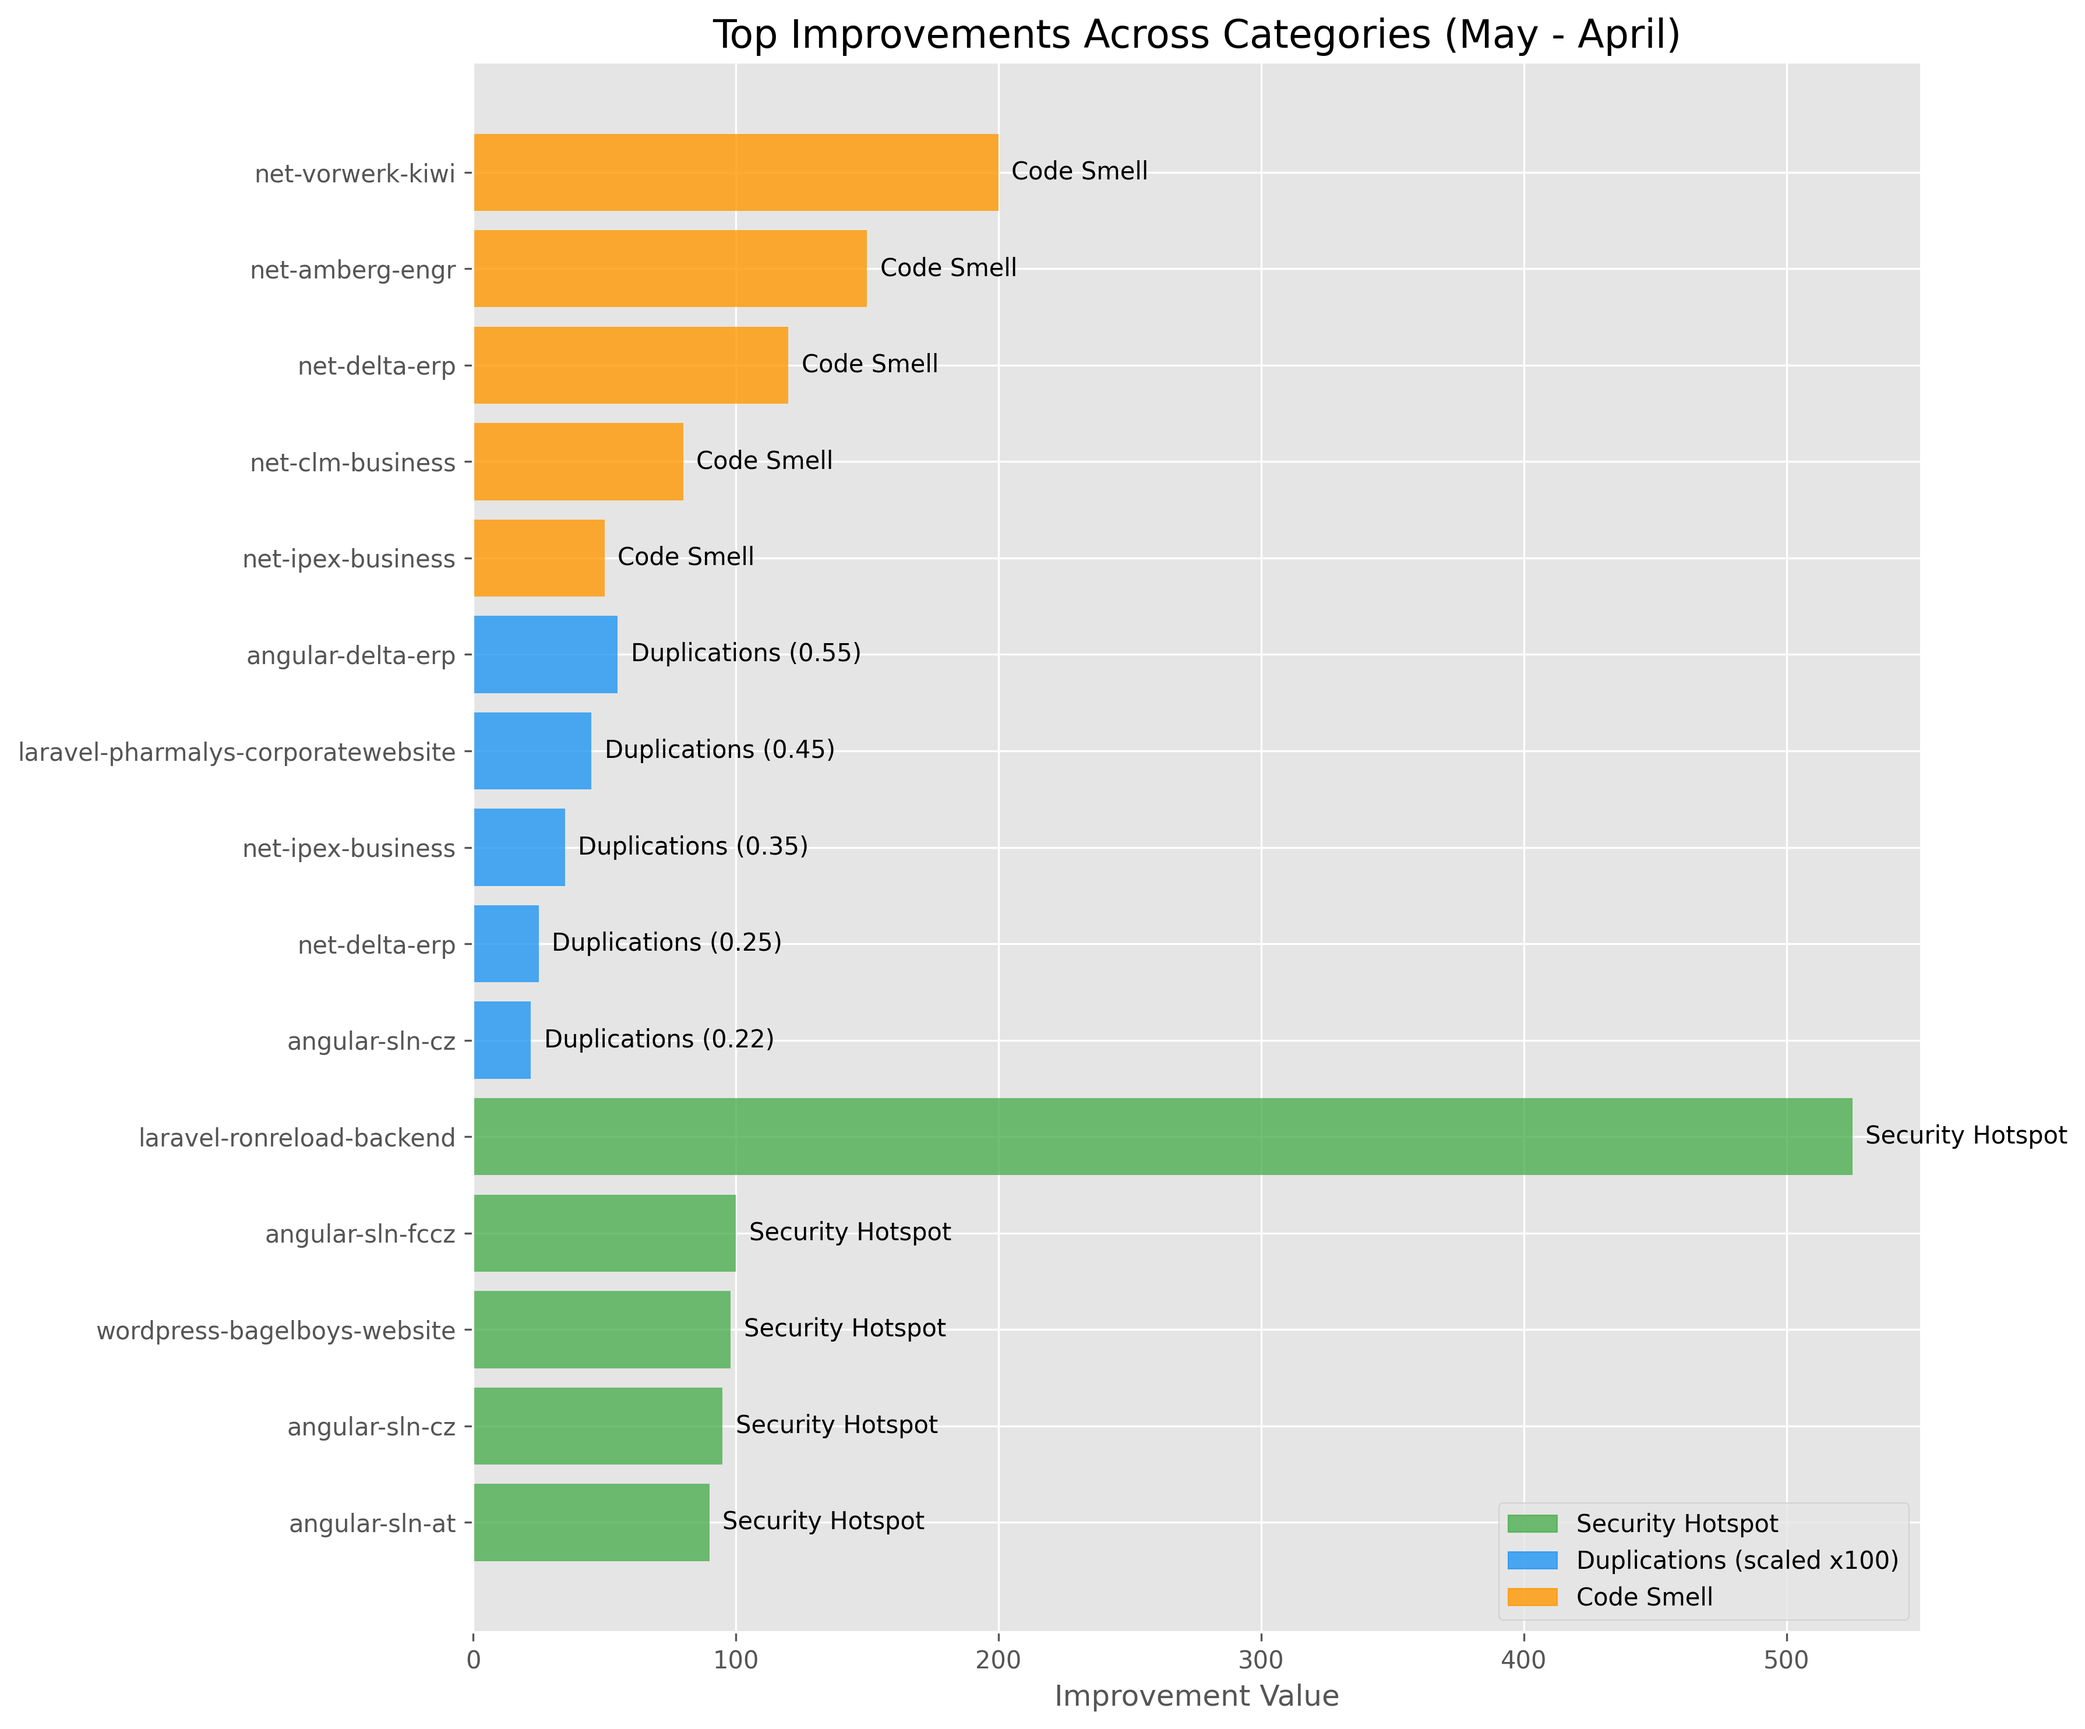
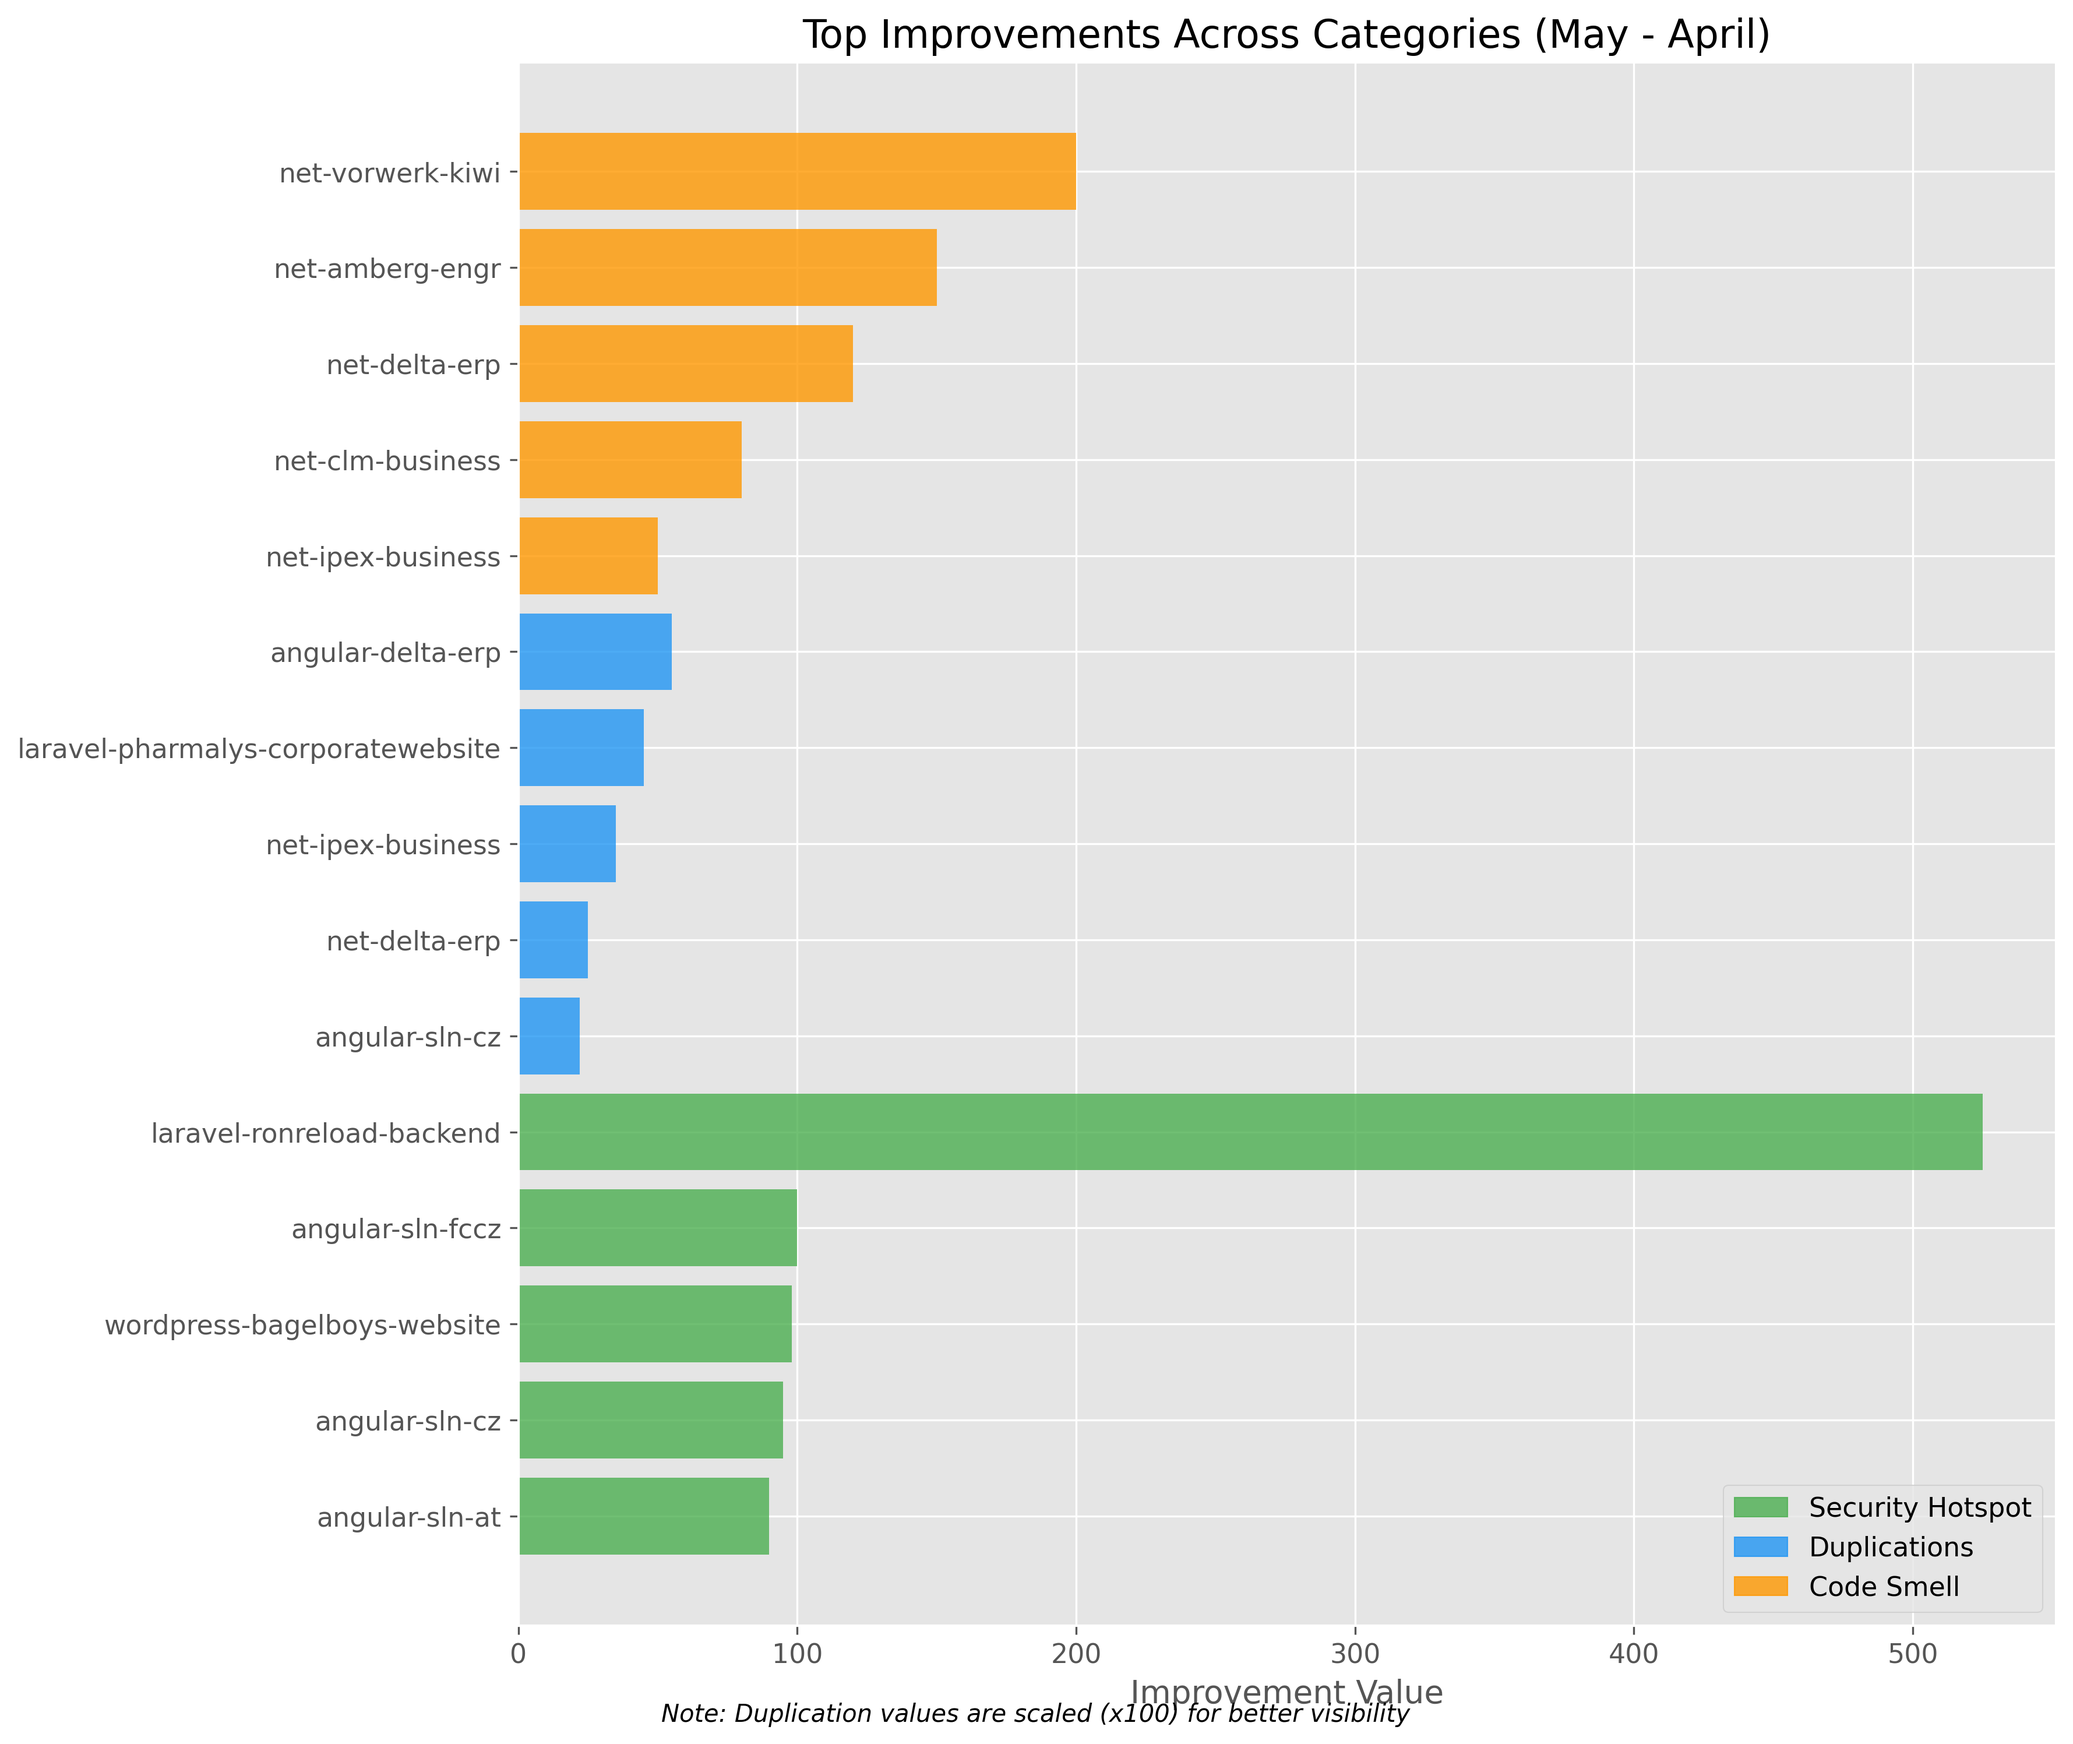
new 01

Changed region(s): [[0.0312, 0.031, 0.9983, 0.9919], [0.3432, 0.0, 0.8423, 0.031], [0.468, 0.062, 0.5616, 0.124]]

diff --git a/compare.py b/compare.py
@@ -1,139 +1,126 @@
 import matplotlib.pyplot as plt
-import numpy as np
 import pandas as pd
 
-# Set style
+# Set style and increase font size for better readability in emails
 plt.style.use('ggplot')
+plt.rcParams.update({'font.size': 11})
 
 # Data for the improvements
-# Security Hotspot Data
-security_names = [
-    'laravel-ronreload-backend',
-    'angular-sln-fccz',
-    'wordpress-bagelboys-website',
-    'angular-sln-cz',
-    'angular-sln-at'
-]
-security_values = [525, 100, 98, 95, 90]
-
-# Duplications Data - Note: These are small values so we'll scale them for visibility
-duplications_names = [
-    'angular-delta-erp',
-    'laravel-pharmalys-corporatewebsite',
-    'net-ipex-business',
-    'net-delta-erp',
-    'angular-sln-cz'
-]
-duplications_values = [0.55, 0.45, 0.35, 0.25, 0.22]
-# Scale for visualization
-duplications_values_scaled = [val * 100 for val in duplications_values]
-
-# Code Smell Data
-code_smell_names = [
-    'net-vorwerk-kiwi',
-    'net-amberg-engr',
-    'net-delta-erp',
-    'net-clm-business',
-    'net-ipex-business'
-]
-code_smell_values = [200, 150, 120, 80, 50]
-
-# Create figure and subplots
-fig, axes = plt.subplots(3, 1, figsize=(10, 12), sharex=True)
-fig.suptitle('Top Improvements Across Categories (May - April)', fontsize=16)
+data = {
+    'Security Hotspot': {
+        'laravel-ronreload-backend': 525,
+        'angular-sln-fccz': 100,
+        'wordpress-bagelboys-website': 98,
+        'angular-sln-cz': 95,
+        'angular-sln-at': 90
+    },
+    'Duplications': {
+        'angular-delta-erp': 0.55,
+        'laravel-pharmalys-corporatewebsite': 0.45,
+        'net-ipex-business': 0.35,
+        'net-delta-erp': 0.25,
+        'angular-sln-cz': 0.22
+    },
+    'Code Smell': {
+        'net-vorwerk-kiwi': 200,
+        'net-amberg-engr': 150,
+        'net-delta-erp': 120,
+        'net-clm-business': 80,
+        'net-ipex-business': 50
+    }
+}
 
 # Colors
-security_color = '#4CAF50'  # Green
-duplications_color = '#2196F3'  # Blue
-code_smell_color = '#FF9800'  # Orange
+colors = {
+    'Security Hotspot': '#4CAF50',  # Green
+    'Duplications': '#2196F3',      # Blue
+    'Code Smell': '#FF9800'         # Orange
+}
 
-# Plot Security Hotspot Improvements
-axes[0].barh(security_names, security_values, color=security_color, alpha=0.8)
-axes[0].set_title('Top 5 Security Hotspot Improvements')
-axes[0].set_ylabel('Repository and Branch')
-axes[0].invert_yaxis()  # Highest value at the top
+# Create a single figure with three subplots
+fig, axes = plt.subplots(3, 1, figsize=(10, 12), sharex=False)
+fig.suptitle('Top Improvements Across Categories (May - April)', fontsize=16, y=0.98)
 
-# Plot Duplications Improvements
-axes[1].barh(duplications_names, duplications_values_scaled, color=duplications_color, alpha=0.8)
-axes[1].set_title('Top 5 Duplications Improvements (scaled x100)')
-axes[1].set_ylabel('Repository and Branch')
-axes[1].invert_yaxis()
+# Plot each category
+for i, (category, values) in enumerate(data.items()):
+    names = list(values.keys())
+    values_list = list(values.values())
+    
+    # For duplications, we'll show the original values
+    if category == 'Duplications':
+        # Create a separate y-axis for the duplications to handle the small values
+        bars = axes[i].barh(names, values_list, color=colors[category], alpha=0.8)
+        axes[i].set_title(f'Top 5 {category} Improvements')
+        # Add value labels directly on the bars
+        for j, v in enumerate(values_list):
+            axes[i].text(v + 0.01, j, f'{v:.2f}', va='center')
+    else:
+        bars = axes[i].barh(names, values_list, color=colors[category], alpha=0.8)
+        axes[i].set_title(f'Top 5 {category} Improvements')
+        # Add value labels for larger values
+        for j, v in enumerate(values_list):
+            axes[i].text(v + 10, j, f'{v}', va='center')
+    
+    axes[i].set_ylabel('Repository')
+    axes[i].invert_yaxis()  # Highest value at the top
+    
+    # Set appropriate x-axis limits
+    if category == 'Duplications':
+        axes[i].set_xlim(0, max(values_list) * 1.3)
+    else:
+        axes[i].set_xlim(0, max(values_list) * 1.1)
 
-# Add actual values as annotations for duplications
-for i, v in enumerate(duplications_values):
-    axes[1].text(duplications_values_scaled[i] + 5, i, f'Actual: {v:.2f}', 
-                 va='center', fontsize=9)
-
-# Plot Code Smell Improvements
-axes[2].barh(code_smell_names, code_smell_values, color=code_smell_color, alpha=0.8)
-axes[2].set_title('Top 5 Code Smell Improvements')
+# Set the bottom x-axis label
 axes[2].set_xlabel('Improvement Value')
-axes[2].set_ylabel('Repository and Branch')
-axes[2].invert_yaxis()
 
 # Adjust layout
 plt.tight_layout()
 plt.subplots_adjust(top=0.93)
 
 # Save figure
-plt.savefig('top_improvements.png', dpi=300, bbox_inches='tight')
+plt.savefig('top_improvements_by_category.png', dpi=300, bbox_inches='tight')
 
-# Show plot
-plt.show()
-
-# Alternative version: All in one chart
+# Create a single combined chart
 plt.figure(figsize=(12, 10))
 
-# Combine all data
-all_names = security_names + duplications_names + code_smell_names
-all_values = security_values + duplications_values_scaled + code_smell_values
-categories = ['Security Hotspot'] * 5 + ['Duplications'] * 5 + ['Code Smell'] * 5
+# Prepare combined data
+all_data = []
+for category, repo_data in data.items():
+    for repo, value in repo_data.items():
+        all_data.append({
+            'Repository': repo,
+            'Value': value,
+            'Category': category,
+            'DisplayValue': value if category != 'Duplications' else value * 100  # Scale duplications for display
+        })
 
-# Create DataFrame
-df = pd.DataFrame({
-    'Repository': all_names,
-    'Value': all_values,
-    'Category': categories
-})
+df = pd.DataFrame(all_data)
 
-# Sort by category and value
+# Sort by category
 df = df.sort_values(by=['Category', 'Value'], ascending=[True, False])
 
 # Create color mapping
-colors = []
-for category in df['Category']:
-    if category == 'Security Hotspot':
-        colors.append(security_color)
-    elif category == 'Duplications':
-        colors.append(duplications_color)
-    else:
-        colors.append(code_smell_color)
+color_list = [colors[cat] for cat in df['Category']]
 
-# Plot
+# Plot combined chart
 plt.figure(figsize=(12, 10))
-bars = plt.barh(range(len(df)), df['Value'], color=colors, alpha=0.8)
+bars = plt.barh(range(len(df)), df['DisplayValue'], color=color_list, alpha=0.8)
 plt.yticks(range(len(df)), df['Repository'])
 plt.gca().invert_yaxis()  # Highest values at top
 plt.xlabel('Improvement Value')
 plt.title('Top Improvements Across Categories (May - April)', fontsize=16)
 
-# Add category labels on the right
-for i, (category, value) in enumerate(zip(df['Category'], df['Value'])):
-    if category == 'Duplications':
-        actual_value = value / 100
-        plt.text(value + 5, i, f'{category} ({actual_value:.2f})', va='center')
-    else:
-        plt.text(value + 5, i, category, va='center')
+# Add a note about duplications scaling
+plt.figtext(0.5, 0.01, 'Note: Duplication values are scaled (x100) for better visibility', 
+            ha='center', fontsize=10, style='italic')
 
-# Add a legend
-handles = [
-    plt.Rectangle((0,0),1,1, color=security_color, alpha=0.8),
-    plt.Rectangle((0,0),1,1, color=duplications_color, alpha=0.8),
-    plt.Rectangle((0,0),1,1, color=code_smell_color, alpha=0.8)
-]
-labels = ['Security Hotspot', 'Duplications (scaled x100)', 'Code Smell']
-plt.legend(handles, labels, loc='lower right')
+# Create legend
+handles = [plt.Rectangle((0,0),1,1, color=colors[cat], alpha=0.8) for cat in colors]
+plt.legend(handles, list(colors.keys()), loc='lower right')
 
 plt.tight_layout()
 plt.savefig('top_improvements_combined.png', dpi=300, bbox_inches='tight')
-plt.show()
+
+print("Visualization completed! Two images have been saved:")
+print("1. top_improvements_by_category.png - Three separate charts")
+print("2. top_improvements_combined.png - Combined chart with all improvements")
